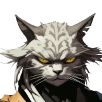
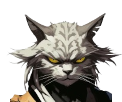
portraits

diff --git a/src/maze/mclachlan/diygui/toolkit/DIYToolkit.java b/src/maze/mclachlan/diygui/toolkit/DIYToolkit.java
@@ -64,7 +64,7 @@ public class DIYToolkit
 	/*-------------------------------------------------------------------------*/
 	public enum Align
 	{
-		LEFT, CENTER, RIGHT
+		LEFT, CENTER, RIGHT, BOTTOM, TOP
 	}
 
 	/*-------------------------------------------------------------------------*/
@@ -920,7 +920,7 @@ public class DIYToolkit
 	}
 
 	/*-------------------------------------------------------------------------*/
-	public static void drawImageCentered(
+	public static void drawImageAligned(
 		Graphics2D g,
 		Image img,
 		Rectangle bounds,
@@ -929,26 +929,22 @@ public class DIYToolkit
 		Dimension imgD = getDimension(img);
 
 		// center on the Y axis
-		int imgOffsetY = (bounds.height - imgD.height) / 2;
+		int imgOffsetY = switch (alignment)
+			{
+				case LEFT, CENTER, RIGHT -> (bounds.height - imgD.height) / 2;
+				case BOTTOM -> bounds.height - imgD.height;
+				case TOP -> 0;
+				default -> throw new MazeException(alignment.toString());
+			};
 
 		// cater for various X axis alignment
-		int imgOffsetX;
-		if (alignment == Align.CENTER)
-		{
-			imgOffsetX = (bounds.width - imgD.width) / 2;
-		}
-		else if (alignment == Align.LEFT)
-		{
-			imgOffsetX = 0;
-		}
-		else if (alignment == Align.RIGHT)
-		{
-			imgOffsetX = bounds.width - imgD.width;
-		}
-		else
-		{
-			throw new MazeException(alignment.toString());
-		}
+		int imgOffsetX = switch (alignment)
+			{
+				case CENTER, TOP, BOTTOM -> (bounds.width - imgD.width) / 2;
+				case LEFT -> 0;
+				case RIGHT -> bounds.width - imgD.width;
+				default -> throw new MazeException(alignment.toString());
+			};
 
 		int imgX = bounds.x + imgOffsetX;
 		int imgY = bounds.y + imgOffsetY;

diff --git a/src/maze/mclachlan/maze/ui/diygui/render/maze/MazeLabelRenderer.java b/src/maze/mclachlan/maze/ui/diygui/render/maze/MazeLabelRenderer.java
@@ -77,7 +77,7 @@ public class MazeLabelRenderer extends Renderer
 			int startX = switch (label.getAlignment())
 				{
 					case LEFT -> x;
-					case CENTER -> x + width / 2 - combinedWidth / 2;
+					case CENTER, TOP, BOTTOM -> x + width / 2 - combinedWidth / 2;
 					case RIGHT -> x + width - combinedWidth;
 					default ->
 						throw new MazeException(label.getAlignment().toString());
@@ -87,7 +87,7 @@ public class MazeLabelRenderer extends Renderer
 			int textX = switch (label.getIconAlign())
 				{
 					case LEFT -> startX + iconWidth;
-					case CENTER -> startX;
+					case CENTER, TOP, BOTTOM -> startX;
 					case RIGHT -> startX;
 					default ->
 						throw new MazeException(label.getAlignment().toString());
@@ -98,7 +98,7 @@ public class MazeLabelRenderer extends Renderer
 		// draw the icon
 		if (icon != null)
 		{
-			DIYToolkit.drawImageCentered(g, icon, iconBounds, label.getAlignment());
+			DIYToolkit.drawImageAligned(g, icon, iconBounds, label.getIconAlign());
 		}
 
 		// draw the text

diff --git a/src/maze/mclachlan/maze/ui/diygui/render/mf/MFMugshotWidgetRenderer.java b/src/maze/mclachlan/maze/ui/diygui/render/mf/MFMugshotWidgetRenderer.java
@@ -72,10 +72,13 @@ public class MFMugshotWidgetRenderer extends Renderer
 		int scaledPortraitHeight = widget.height -panelBorderInset*2 -inset*2;
 		int scaledPortraitWidth = scaledPortraitHeight*portraitWidth/portraitHeight;
 
-		g.drawImage(portrait,
-			x+panelBorderInset+inset, y+panelBorderInset+inset,
-			scaledPortraitWidth, scaledPortraitHeight,
-			DIYToolkit.getInstance().getComponent());
+		DIYToolkit.drawImageAligned(g, portrait,
+			new Rectangle(x+panelBorderInset+inset, y+panelBorderInset+inset,
+			scaledPortraitWidth, scaledPortraitHeight), DIYToolkit.Align.BOTTOM);
+//		g.drawImage(portrait,
+//			x+panelBorderInset+inset, y+panelBorderInset+inset,
+//			scaledPortraitWidth, scaledPortraitHeight,
+//			DIYToolkit.getInstance().getComponent());
 
 		// draw bars
 		int startX = x +panelBorderInset +inset +scaledPortraitWidth +inset*2;

diff --git a/src/maze/mclachlan/maze/ui/diygui/render/maze/DroppedItemWidgetRenderer.java b/src/maze/mclachlan/maze/ui/diygui/render/maze/DroppedItemWidgetRenderer.java
@@ -48,8 +48,8 @@ public class DroppedItemWidgetRenderer extends Renderer
 		Rectangle bounds = new Rectangle(x, y, width, height);
 
 		Image slotImage = DIYToolkit.getInstance().getRendererProperties().getImageResource("icon/itemslot");
-		DIYToolkit.drawImageCentered(g, slotImage, bounds, DIYToolkit.Align.CENTER);
-		DIYToolkit.drawImageCentered(g, itemImage, bounds, DIYToolkit.Align.CENTER);
+		DIYToolkit.drawImageAligned(g, slotImage, bounds, DIYToolkit.Align.CENTER);
+		DIYToolkit.drawImageAligned(g, itemImage, bounds, DIYToolkit.Align.CENTER);
 
 //		int imageX = x + width / 2 - imageWidth / 2;
 //		RoundRectangle2D outer = new RoundRectangle2D.Double(

diff --git a/src/maze/mclachlan/maze/ui/diygui/render/maze/ItemWidgetRenderer.java b/src/maze/mclachlan/maze/ui/diygui/render/maze/ItemWidgetRenderer.java
@@ -51,10 +51,10 @@ public class ItemWidgetRenderer extends Renderer
 			Rectangle iconBounds = new Rectangle(widget.x, widget.y,
 				iconSize, iconSize);
 
-			DIYToolkit.drawImageCentered(g, slotImage, iconBounds, DIYToolkit.Align.CENTER);
+			DIYToolkit.drawImageAligned(g, slotImage, iconBounds, DIYToolkit.Align.CENTER);
 			if (widget.getItem() != null)
 			{
-				DIYToolkit.drawImageCentered(g, widget.getImage(), iconBounds, DIYToolkit.Align.CENTER);
+				DIYToolkit.drawImageAligned(g, widget.getImage(), iconBounds, DIYToolkit.Align.CENTER);
 			}
 			if (widget.getText() != null)
 			{

diff --git a/src/maze/mclachlan/maze/ui/diygui/render/mf/MFComboBoxRenderer.java b/src/maze/mclachlan/maze/ui/diygui/render/mf/MFComboBoxRenderer.java
@@ -188,7 +188,7 @@ public class MFComboBoxRenderer extends Renderer
 			}
 			case RIGHT ->
 			{
-				DIYToolkit.drawImageCentered(g,
+				DIYToolkit.drawImageAligned(g,
 					arrowRight,
 					new Rectangle(
 						x +width -borderRight.getWidth(),
@@ -199,7 +199,7 @@ public class MFComboBoxRenderer extends Renderer
 			}
 			case LEFT ->
 			{
-				DIYToolkit.drawImageCentered(g,
+				DIYToolkit.drawImageAligned(g,
 					arrowLeft,
 					new Rectangle(
 						x +borderRight.getWidth() -arrowLeft.getWidth() -1,

diff --git a/src/maze/mclachlan/maze/ui/diygui/render/mf/MFRendererFactory.java b/src/maze/mclachlan/maze/ui/diygui/render/mf/MFRendererFactory.java
@@ -124,7 +124,8 @@ public class MFRendererFactory extends RendererFactory
 					case CONDITION_ICON_SIZE -> 22;
 
 					case PCW_PORTRAIT_FRAME_BORDER -> 9;
-					case PCW_PORTRAIT_WIDTH, PCW_PORTRAIT_HEIGHT -> 102;
+					case PCW_PORTRAIT_HEIGHT -> 102;
+					case PCW_PORTRAIT_WIDTH -> 102;
 				};
 		}
 

diff --git a/src/maze/mclachlan/maze/ui/diygui/PlayerCharacterWidget.java b/src/maze/mclachlan/maze/ui/diygui/PlayerCharacterWidget.java
@@ -75,6 +75,7 @@ public class PlayerCharacterWidget extends DIYPanel
 
 		// portrait, name, class
 		portrait = new DIYLabel();
+		portrait.setIconAlign(DIYToolkit.Align.BOTTOM);
 		portraitFrame = new DIYLabel();
 
 		portrait.addActionListener(this);
